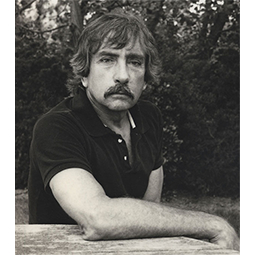
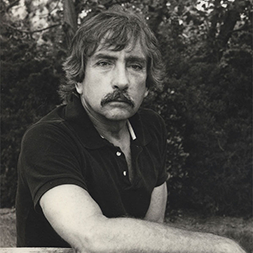
Gallery 2- revised w/ descendant selector

diff --git a/unit_7/02_kasterine-gallery-02.html b/unit_7/02_kasterine-gallery-02.html
@@ -35,39 +35,25 @@
 		       	</nav>
 		   	</header>
 			<main>
-				<section class="clearfix figure-wrap">
-					<a class="fancybox" rel="group" href="images/02_kasterine_g02_fig02-z.jpg" title="Paul Theroux, London, 1976 - Dmitri Kasterine"><img src="images/02_kasterine_g02_fig02.jpg" alt="Paul Theroux by Dmitri Kasterine" class="g02-row"></a>
-					
-					<a class="fancybox" rel="group" href="images/02_kasterine_g02_fig03-z.jpg" title="Francesco Clemente, NYC, 1986 - Dmitri Kasterine"><img src="images/02_kasterine_g02_fig03.jpg" alt="Francesco Clemente by Dmitri Kasterine" class="g02-row"></a>
-					
-					<a class="fancybox" rel="group" href="images/02_kasterine_g02_fig04-z.jpg" title="Jean-Michel Basquiat, NYC, 1988 - Dmitri Kasterine"><img src="images/02_kasterine_g02_fig04.jpg" alt="Jean-Michel Basquiat by Dmitri Kasterine" class="g02-row"></a>
-					
-					<a class="fancybox" rel="group" href="images/02_kasterine_g02_fig05-z.jpg" title="Kinga, Stowe, Vermont, 2001 - Dmitri Kasterine"><img src="images/02_kasterine_g02_fig05.jpg" alt="Kinga by Dmitri Kasterine" class="g02-row"></a>
-
-					<a class="fancybox" rel="group" href="images/02_kasterine_g02_fig06-z.jpg" title="Graham Greene, Antibe, France, 1981 - Dmitri Kasterine"><img src="images/02_kasterine_g02_fig06.jpg" alt="Graham Greene by Dmitri Kasterine" class="g02-row"></a>
-
-					<a class="fancybox" rel="group" href="images/02_kasterine_g02_fig07-z.jpg" title="Edward Albee, Montauk, NY, 1983 - Dmitri Kasterine"><img src="images/02_kasterine_g02_fig07.jpg" alt="Edward Albee by Dmitri Kasterine" class="g02-row"></a>
-
-					<a class="fancybox" rel="group" href="images/02_kasterine_g02_fig08-z.jpg" title="Francis Bacon, London, 1976 - Dmitri Kasterine">
-					<img src="images/02_kasterine_g02_fig08.jpg" alt="Francis Bacon by Dmitri Kasterine" class="g02-row"></a>
-
-					<a class="fancybox" rel="group" href="images/02_kasterine_g02_fig09-z.jpg" title="Rainer Fetting, NYC, 1985 - Dmitri Kasterine"><img src="images/02_kasterine_g02_fig09.jpg" alt="Rainer Fetting by Dmitri Kasterine" class="g02-row"></a>
-
-					<a class="fancybox" rel="group" href="images/02_kasterine_g02_fig01-z.jpg" title="Barrow Boy, World's End, 1963 - Dmitri Kasterine"><img src="images/02_kasterine_g02_fig01.jpg" alt="Barrow Boy, World's End by Dmitri Kasterine" class="g02-top"></a>
+				<section class="figure-wrap clearfix">
+					<div class="g02-row">
+						<a class="fancybox" rel="group" href="images/02_kasterine_g02_fig02-z.jpg" title="Paul Theroux, London, 1976 - Dmitri Kasterine"><img src="images/02_kasterine_g02_fig02.jpg" alt="Paul Theroux by Dmitri Kasterine"></a>
+						<a class="fancybox" rel="group" href="images/02_kasterine_g02_fig03-z.jpg" title="Francesco Clemente, NYC, 1986 - Dmitri Kasterine"><img src="images/02_kasterine_g02_fig03.jpg" alt="Francesco Clemente by Dmitri Kasterine"></a>
+						<a class="fancybox" rel="group" href="images/02_kasterine_g02_fig04-z.jpg" title="Jean-Michel Basquiat, NYC, 1988 - Dmitri Kasterine"><img src="images/02_kasterine_g02_fig04.jpg" alt="Jean-Michel Basquiat by Dmitri Kasterine"></a>
+						<a class="fancybox" rel="group" href="images/02_kasterine_g02_fig05-z.jpg" title="Kinga, Stowe, Vermont, 2001 - Dmitri Kasterine"><img src="images/02_kasterine_g02_fig05.jpg" alt="Kinga by Dmitri Kasterine"></a>
+						<a class="fancybox" rel="group" href="images/02_kasterine_g02_fig06-z.jpg" title="Graham Greene, Antibe, France, 1981 - Dmitri Kasterine"><img src="images/02_kasterine_g02_fig06.jpg" alt="Graham Greene by Dmitri Kasterine"</a>
+						<a class="fancybox" rel="group" href="images/02_kasterine_g02_fig07-z.jpg" title="Edward Albee, Montauk, NY, 1983 - Dmitri Kasterine"><img src="images/02_kasterine_g02_fig07.jpg" alt="Edward Albee by Dmitri Kasterine"</a>
+						<a class="fancybox" rel="group" href="images/02_kasterine_g02_fig08-z.jpg" title="Francis Bacon, London, 1976 - Dmitri Kasterine">
+						<img src="images/02_kasterine_g02_fig08.jpg" alt="Francis Bacon by Dmitri Kasterine"</a>
+						<a class="fancybox" rel="group" href="images/02_kasterine_g02_fig09-z.jpg" title="Rainer Fetting, NYC, 1985 - Dmitri Kasterine"><img src="images/02_kasterine_g02_fig09.jpg" alt="Rainer Fetting by Dmitri Kasterine"</a>
+					</div>
+					<div>
+						<a class="fancybox" rel="group" href="images/02_kasterine_g02_fig01-z.jpg" title="Barrow Boy, World's End, 1963 - Dmitri Kasterine"><img src="images/02_kasterine_g02_fig01.jpg" alt="Barrow Boy, World's End by Dmitri Kasterine" class="g02-top"></a>
+					</div>
 				</section>
 				<section>
-					<p class="gallery-text">Here is some txt. Lorem ipsum dolor sit amet, consectetur adipisicing elit, sed do eiusmod
-					tempor incididunt ut labore et dolore magna aliqua. Ut enim ad minim veniam,
-					quis nostrud exercitation ullamco laboris nisi ut aliquip ex ea commodo
-					consequat. Duis aute irure dolor in reprehenderit in voluptate velit esse
-					cillum dolore eu fugiat nulla pariatur. Excepteur sint occaecat cupidatat non
-					proident, sunt in culpa qui officia deserunt mollit anim id est laborum.
-					</p>
-					<p class="gallery-text">
-					Lorem ipsum dolor sit amet, consectetur adipisicing elit, sed do eiusmod
-					tempor incididunt ut labore et dolore magna aliqua. Ut enim ad minim veniam,
-					quis nostrud exercitation ullamco laboris nisi ut aliquip ex ea commodo
-					consequat. 
+					<p class="gallery-text">Here is some txt. Lorem ipsum dolor sit amet, consectetur adipisicing elit, sed do eiusmod tempor incididunt ut labore et dolore magna aliqua. Ut enim ad minim veniam, quis nostrud exercitation ullamco laboris nisi ut aliquip ex ea commodo
+					consequat. Duis aute irure dolor in reprehenderit in voluptate velit ess cillum dolore eu fugiat nulla pariatur. Excepteur sint occaecat cupidatat non proident, sunt in culpa qui officia deserunt.
 					</p>
 				</section>
 				<section>

diff --git a/unit_7/02_kasterine-gallery-03.html b/unit_7/02_kasterine-gallery-03.html
@@ -37,14 +37,14 @@
 			<main>
 				<section class="clearfix figure-wrap">
 					<div class="g03-row-a">
-						<img src="images/02_kasterine_g03_fig01.jpg" alt="John J Lease by Dmitri Kasterine"> <!-- class="g03-row-a"> -->
-						<img src="images/02_kasterine_g03_fig02.jpg" alt="Girl with friend's baby by Dmitri Kasterine"> <!-- class="g03-row-a"> -->
-						<img src="images/02_kasterine_g03_fig03.jpg" alt="Toni Rose by Dmitri Kasterine"> <!-- class="g03-row-a"> -->
-						<img src="images/02_kasterine_g03_fig04.jpg" alt="Ruth by Dmitri Kasterine"> <!-- class="g03-row-a"> -->
+						<img src="images/02_kasterine_g03_fig01.jpg" alt="John J Lease by Dmitri Kasterine">
+						<img src="images/02_kasterine_g03_fig02.jpg" alt="Girl with friend's baby by Dmitri Kasterine">
+						<img src="images/02_kasterine_g03_fig03.jpg" alt="Toni Rose by Dmitri Kasterine"> 
+						<img src="images/02_kasterine_g03_fig04.jpg" alt="Ruth by Dmitri Kasterine">
 					</div>
 					<div class="g03-row-b">
-						<img src="images/02_kasterine_g03_fig05.jpg" alt="Newburgh by Dmitri Kasterine"> <!-- class="g03-row-b" -->
-						<img src="images/02_kasterine_g03_fig06.jpg" alt="Newburgh by Dmitri Kasterine"> <!-- class="g03-row-b" -->
+						<img src="images/02_kasterine_g03_fig05.jpg" alt="Newburgh by Dmitri Kasterine">
+						<img src="images/02_kasterine_g03_fig06.jpg" alt="Newburgh by Dmitri Kasterine">
 						<img src="images/02_kasterine_g03_fig07.jpg" alt="Newburgh by Dmitri Kasterine">
 						<img src="images/02_kasterine_g03_fig08.jpg" alt="Newburgh by Dmitri Kasterine">
 						<img src="images/02_kasterine_g03_fig09.jpg" alt="Newburgh by Dmitri Kasterine">
@@ -62,18 +62,8 @@
 					</div>
 				</section>
 				<section>
-					<p class="gallery-text">Here is some txt. Lorem ipsum dolor sit amet, consectetur adipisicing elit, sed do eiusmod
-					tempor incididunt ut labore et dolore magna aliqua. Ut enim ad minim veniam,
-					quis nostrud exercitation ullamco laboris nisi ut aliquip ex ea commodo
-					consequat. Duis aute irure dolor in reprehenderit in voluptate velit esse
-					cillum dolore eu fugiat nulla pariatur. Excepteur sint occaecat cupidatat non
-					proident, sunt in culpa qui officia deserunt mollit anim id est laborum.
-					</p>
-					<p class="gallery-text">
-					Lorem ipsum dolor sit amet, consectetur adipisicing elit, sed do eiusmod
-					tempor incididunt ut labore et dolore magna aliqua. Ut enim ad minim veniam,
-					quis nostrud exercitation ullamco laboris nisi ut aliquip ex ea commodo
-					consequat. 
+					<p class="gallery-text">Here is some txt. Lorem ipsum dolor sit amet, consectetur adipisicing elit, sed do eiusmod tempor incididunt ut labore et dolore magna aliqua. Ut enim ad minim veniam, quis nostrud exercitation ullamco laboris nisi ut aliquip ex ea commodo
+					consequat. Duis aute irure dolor in reprehenderit in voluptate velit ess cillum dolore eu fugiat nulla pariatur. Excepteur sint occaecat cupidatat non proident, sunt in culpa qui officia deserunt.
 					</p>
 				</section>
 				<section>

diff --git a/unit_7/02_kasterine-gallery-01.html b/unit_7/02_kasterine-gallery-01.html
@@ -50,18 +50,7 @@
 					<a class="fancybox" rel="group" href="images/02_kasterine_g01_fig10-z.jpg" title="Malcolm McDowell, Set of Clockwork Orange, 1969 - Dmitri Kasterine"><img src="images/02_kasterine_g01_fig10.jpg" alt="Malcolm McDowell by Dmitri Kasterine" class="g01-row-2-rght"></a>
 				</section>
 				<section>
-					<p class="gallery-text">Here is some txt. Lorem ipsum dolor sit amet, consectetur adipisicing elit, sed do eiusmod
-					tempor incididunt ut labore et dolore magna aliqua. Ut enim ad minim veniam,
-					quis nostrud exercitation ullamco laboris nisi ut aliquip ex ea commodo
-					consequat. Duis aute irure dolor in reprehenderit in voluptate velit esse
-					cillum dolore eu fugiat nulla pariatur. Excepteur sint occaecat cupidatat non
-					proident, sunt in culpa qui officia deserunt mollit anim id est laborum.
-					<p class="gallery-text">
-					Lorem ipsum dolor sit amet, consectetur adipisicing elit, sed do eiusmod
-					tempor incididunt ut labore et dolore magna aliqua. Ut enim ad minim veniam,
-					quis nostrud exercitation ullamco laboris nisi ut aliquip ex ea commodo
-					consequat. 
-					</p>
+					<p class="gallery-text">Here is some txt. Lorem ipsum dolor sit amet, consectetur adipisicing elit, sed do eiusmod tempor incididunt ut labore et dolore magna aliqua. Ut enim ad minim veniam, quis nostrud exercitation ullamco laboris nisi ut. Ut enim ad minim veniam.</p>
 				</section>
 				<section>
 					<ul class="nav-bot-align">

diff --git a/unit_7/css/style.css b/unit_7/css/style.css
@@ -161,47 +161,46 @@ img.g01-row-a {
 
 img.g02-top {
   width:100%;
-  margin: 0 auto;
-  padding: 1em 0 0 0;
-  display: block;
+  /*margin: 0 auto;*/
+  padding: 1em;
+  /*display: block;*/
+  /*background-color: red;*/
+
 }
 
-img.g02-row {
+/*img.g02-row {
   float: left;
   width: 25%;
   padding: 0 .5em 1em .5em;
 }
+*/
 
-/*img.g03-row-a {
+.g02-row {
+  width:100%;
   float: left;
-  width: 25%;
-  padding: 0 1em 0 0;
-}*/
+  /*background-color: black;*/
+}
+
+.g02-row img {
+padding: 0 0 1em 0;
+margin-left: 1.5em;
+width: 22%;
+/*background-color: yellow;*/
+}
 
 .g03-row-a {
   float: left;  
-/*margin: auto 0;*/
 }
 
 .g03-row-a img {
-/*  width: 25%;*/
   padding: 0 1em 0 1em;
 }
 
-/*img.g03-row-b {
-  float: left;
-  width: 25%;
-  padding: 1em 1em 0 0;
-}*/
-
 .g03-row-b {
   float: left;
-  /*margin: auto 0;*/
 }
 
 .g03-row-b img {
-/*  width: 25%;*/
-  /*float: left;*/
   padding: 1em 1em 0 1em;
 }
 
@@ -258,7 +257,6 @@ p.gallery-text {
   text-align: justify;
   padding: 1em 0;
   margin: 0 auto;
-
 }
 
 p.logo-page {
@@ -308,6 +306,7 @@ p.nb-wal-txt{
 .figure-wrap {
 width:1020px;
 margin: 3em 0 0 0;
+
 }
 
 .g01-row-1 {
